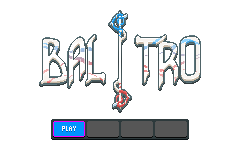
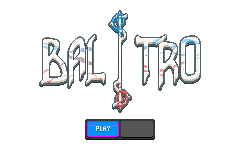
Reduced amount of menu buttons

Changed region(s): [[0.2042, 0.7188, 0.4958, 0.875], [0.6417, 0.7188, 0.7875, 0.875]]

diff --git a/source/game.c b/source/game.c
@@ -252,10 +252,10 @@ static const BG_POINT JOKER_DISCARD_TARGET  = {240,     30};
 
 #define ITEM_SHOP_Y 71 // TODO: Needs to be a rect?
 
-#define MAIN_MENU_BUTTONS 4
+#define MAIN_MENU_BUTTONS 2
 #define MAIN_MENU_IMPLEMENTED_BUTTONS 1 // Remove this once all buttons are implemented
 #define MAIN_MENU_PLAY_BUTTON_MAIN_COLOR_PID 5
-#define MAIN_MENU_PLAY_BUTTON_OUTLINE_COLOR_PID 3
+#define MAIN_MENU_PLAY_BUTTON_OUTLINE_COLOR_PID 2
 
 //TODO: Properly define and use
 #define MENU_POP_OUT_ANIM_FRAMES 20
